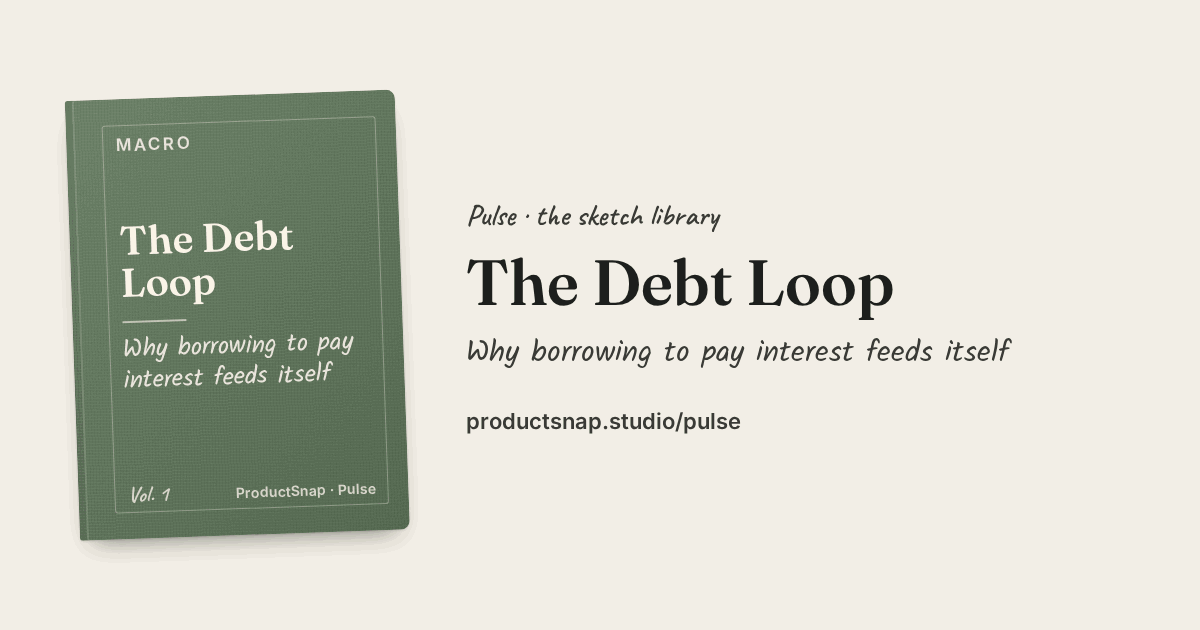
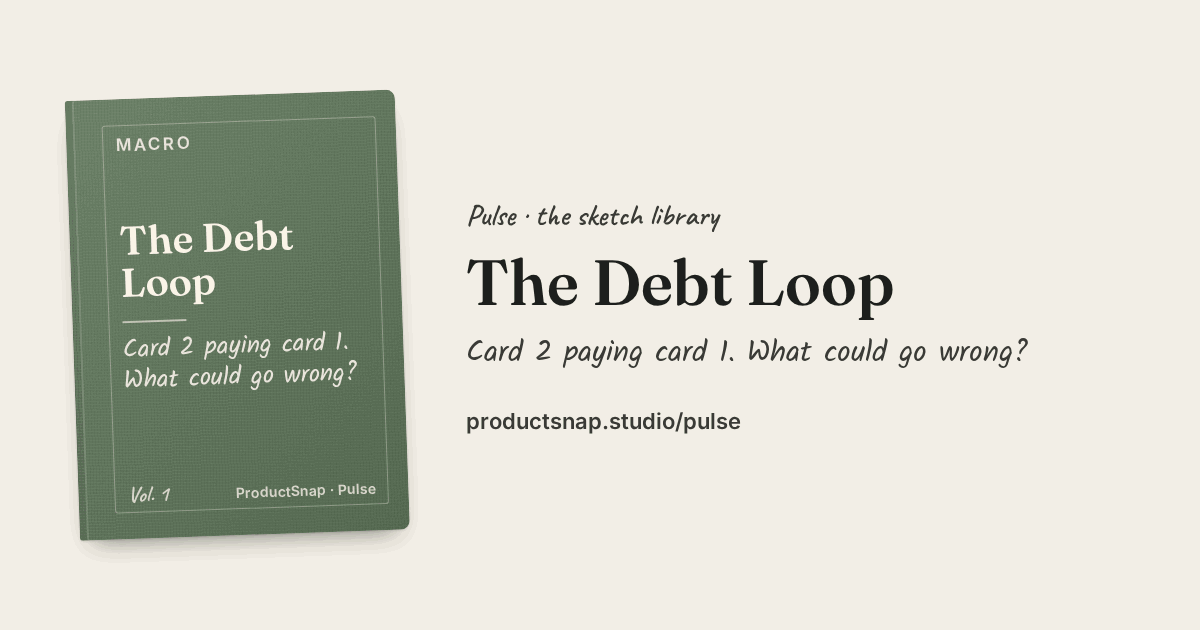
Staging: The Debt Loop v4 (21 cards)

Changed region(s): [[0.0925, 0.5127, 0.3083, 0.6333], [0.37, 0.5429, 0.8633, 0.6032]]

diff --git a/share/debt-loop.html b/share/debt-loop.html
@@ -2,20 +2,20 @@
 <html lang="en"><head><meta charset="utf-8" />
 <title>The Debt Loop — Pulse · ProductSnap Studio</title>
 <meta name="viewport" content="width=device-width, initial-scale=1" />
-<meta name="description" content="Why borrowing to pay interest feeds itself. Borrowing to pay interest. The US owes about $40 trillion and now pays over $1 trillion a year in interest, much of it paid by borrowing more. The pipes matter. Every new IOU passes through money plumbing: bank reserves, short-term lending and money funds." />
+<meta name="description" content="Card 2 paying card 1. What could go wrong? Borrowing to pay interest makes debt grow on itself: in 2026 about half of new US borrowing just covered interest. When lots of borrowed money moves at once, a calm market can suddenly panic. New money reaches some people before prices rise, and others afte" />
 <meta name="robots" content="noindex, follow" />
 <link rel="canonical" href="https://productsnap.studio/pulse#book/debt-loop/1" />
 <meta property="og:type" content="book" />
 <meta property="og:site_name" content="ProductSnap Studio" />
 <meta property="og:title" content="The Debt Loop — a Pulse sketch book" />
-<meta property="og:description" content="Why borrowing to pay interest feeds itself. Borrowing to pay interest. The US owes about $40 trillion and now pays over $1 trillion a year in interest, much of it paid by borrowing more. The pipes matter. Every new IOU passes through money plumbing: bank reserves, short-term lending and money funds." />
+<meta property="og:description" content="Card 2 paying card 1. What could go wrong? Borrowing to pay interest makes debt grow on itself: in 2026 about half of new US borrowing just covered interest. When lots of borrowed money moves at once, a calm market can suddenly panic. New money reaches some people before prices rise, and others afte" />
 <meta property="og:url" content="https://productsnap.studio/share/debt-loop.html" />
 <meta property="og:image" content="https://productsnap.studio/assets/pulse/og/debt-loop.png" />
 <meta property="og:image:width" content="1200" /><meta property="og:image:height" content="630" />
-<meta property="og:image:alt" content="Cover of The Debt Loop: Why borrowing to pay interest feeds itself" />
+<meta property="og:image:alt" content="Cover of The Debt Loop: Card 2 paying card 1. What could go wrong?" />
 <meta name="twitter:card" content="summary_large_image" />
 <meta name="twitter:title" content="The Debt Loop — a Pulse sketch book" />
-<meta name="twitter:description" content="Why borrowing to pay interest feeds itself. Borrowing to pay interest. The US owes about $40 trillion and now pays over $1 trillion a year in interest, much of it paid by borrowing more. The pipes matter. Every new IOU passes through money plumbing: bank reserves, short-term lending and money funds." />
+<meta name="twitter:description" content="Card 2 paying card 1. What could go wrong? Borrowing to pay interest makes debt grow on itself: in 2026 about half of new US borrowing just covered interest. When lots of borrowed money moves at once, a calm market can suddenly panic. New money reaches some people before prices rise, and others afte" />
 <meta name="twitter:image" content="https://productsnap.studio/assets/pulse/og/debt-loop.png" />
 <meta http-equiv="refresh" content="0; url=../pulse.html#book/debt-loop/1" />
 <script>

diff --git a/scripts/add_book.py b/scripts/add_book.py
@@ -94,8 +94,8 @@ def cmd_book(a):
             "pages": [page_entry(a.slug, i, s, t) for i, (s, t) in enumerate(zip(a.pages, titles), 1)]}
     # recap: 1-3 plain lines that cover ALL pages; recap_pages records how many pages it was written for
     if a.recap:
-        if not 1 <= len(a.recap) <= 3:
-            sys.exit("--recap takes 1 to 3 lines")
+        if not 1 <= len(a.recap) <= 4:
+            sys.exit("--recap takes 1 to 4 lines")
         book["recap"] = a.recap
     elif old and old.get("recap") and old.get("recap_pages") == len(a.pages):
         book["recap"] = old["recap"]
@@ -135,7 +135,7 @@ def free_index(b):
 
 def cmd_append(a):
     lib = load(); b = find(lib, a.slug)
-    if not a.recap or not 1 <= len(a.recap) <= 3:
+    if not a.recap or not 1 <= len(a.recap) <= 4:
         sys.exit("Adding a page changes the book: pass --recap with 1-3 plain lines covering ALL %d pages (the 'You finished' card)." % (len(b["pages"]) + 1))
     entry = page_entry(a.slug, free_index(b), a.image, a.title)  # file names are opaque; order lives in JSON
     if a.at:

diff --git a/scripts/check_library.py b/scripts/check_library.py
@@ -6,8 +6,8 @@ L = json.load(open(os.path.join(os.path.dirname(__file__), "..", "data", "librar
 bad = []
 for b in L:
     r = b.get("recap")
-    if not r or not 1 <= len(r) <= 3 or not all(isinstance(x, str) and x.strip() for x in r):
-        bad.append("%s: recap must be 1-3 non-empty lines" % b["id"])
+    if not r or not 1 <= len(r) <= 4 or not all(isinstance(x, str) and x.strip() for x in r):
+        bad.append("%s: recap must be 1-4 non-empty lines" % b["id"])
     if b.get("recap_pages") != len(b["pages"]):
         bad.append("%s: recap_pages=%s but the book has %d pages; rewrite the recap (add_book.py --recap)" % (b["id"], b.get("recap_pages"), len(b["pages"])))
 print("\n".join(bad) or "library OK: %d books, recaps match page counts" % len(L))
